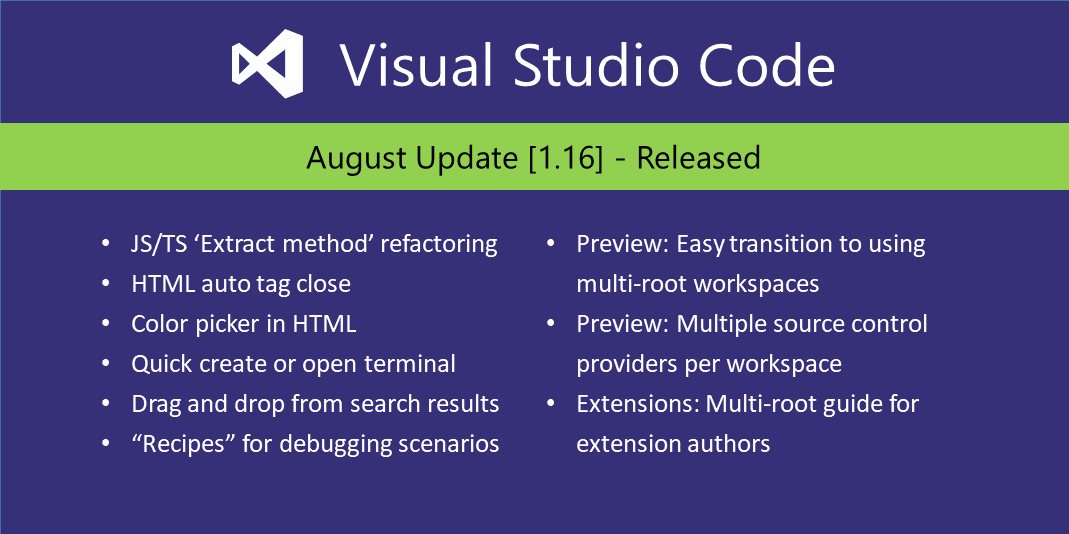
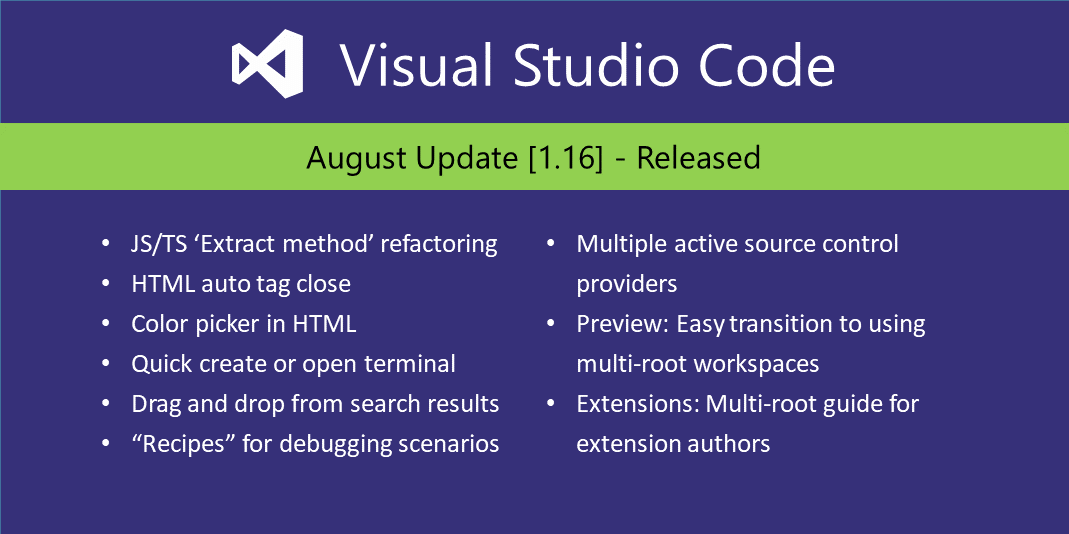
Multiple SCM providers in stable

Changed region(s): [[0.5557, 0.5094, 0.8644, 0.6292], [0.5557, 0.6592, 0.8026, 0.7191], [0.5248, 0.4195, 0.8644, 0.4794]]

diff --git a/release-notes/v1_16.md b/release-notes/v1_16.md
@@ -14,10 +14,10 @@ Welcome to the August 2017 release of Visual Studio Code. There are a number of 
 * **[Color picker in HTML](#color-picker-in-html)** - You can now use the VS Code color picker in HTML files.
 * **[Integrated Terminal quick open](#terminal-quick-open-improvements)** - Create or jump to terminals from VS Code Quick Open.
 * **[Drag and drop from search](#drag-and-drop-from-search-results-and-problems-panel)** - Quickly open files from Search and also the Problems panel.
+* **[Multiple SCM providers](#source-control)** - You can now have multiple active source control providers.
 * **[New online documentation](#new-documentation)** - New Emmet topic and updates to the Node.js Deployment tutorial.
 * **[VS Code "recipes" repository](#vs-code-recipes)** - Examples using React, Angular and Docker in VS Code.
 * **[Preview: Multi-root workspaces](#preview-multi-root-workspaces)** - Smoother UI when adding folders and creating a Workspace (Insiders build).
-* **[Preview: Multiple SCM providers](#preview-source-control)** - With multiple folders, you can have multiple source control providers (Insiders build).
 * **[Multi-root tips for extension authors](#multi-root-workspace-tips-for-extension-authors)** - Update your extension to work seamlessly with multi-root workspaces.
 
 >If you'd like to read these release notes online, go to [Updates](https://code.visualstudio.com/updates) on [code.visualstudio.com](https://code.visualstudio.com).<br>
@@ -205,6 +205,14 @@ This can be used to reload images that have been modified on the file system.
 ### CSS/JSON color preview
 
 We moved the inline color preview rendering from the CSS/JSON extensions to the VS Code core and in the process deprecated four configuration settings: `css.colorDecorators.enable`, `sass.colorDecorators.enable`, `scss.colorDecorators.enable` and `json.colorDecorators.enable`. There is a new general setting `editor.colorDecorators` to control if the inline color box should be rendered.
+
+## Source control
+
+There is now support for having multiple source control providers simultaneously. This feature aligns with the work for  multi-root workspaces as multiple projects may have different SCM providers.
+
+![Multiple source control providers](images/1_16/scm-multiroot.png)
+
+You can now work on multiple Git repositories at once or even mix and match with other [source control providers](https://marketplace.visualstudio.com/search?target=VSCode&category=SCM%20Providers&sortBy=Downloads), all in a single workbench window.
 
 ## New Documentation
 
@@ -429,21 +437,13 @@ In addition, the following Microsoft extensions have been updated:
 
 * [ESLint](https://marketplace.visualstudio.com/items?itemName=dbaeumer.vscode-eslint)
 * [TSLint](https://marketplace.visualstudio.com/items?itemName=eg2.tslint)
-* [Go](https://marketplace.visualstudio.com/items?itemName=lukehoban.Go) 
+* [Go](https://marketplace.visualstudio.com/items?itemName=lukehoban.Go)
 
 As mentioned [above](#multi-root-workspace-tips-for-extension-authors), there is an multi-root workspace [guide](https://github.com/Microsoft/vscode/wiki/Extension-Authoring:-Adopting-Multi-Root-Workspace-APIs) to help you update your own extensions.
 
 ### Multi-root and the Language Server Protocol
 
 Proposed protocol has been added to the LSP to support multi-root workspaces. Both the [VS Code language client](https://www.npmjs.com/package/vscode-languageclient) and the [VS Code language server](https://www.npmjs.com/package/vscode-languageserver) have been updated to support the proposed protocol. In addition, VS Code's language client has been enhanced to support a server per workspace folder. A corresponding example can be found [here](https://github.com/Microsoft/vscode-extension-samples/tree/master/lsp-multi-server-sample).
-
-## Preview: Source control
-
-There is now support for having multiple source control providers simultaneously. This feature aligns with the work for  multi-root workspaces as multiple projects may have different SCM providers.
-
-![Multiple source control providers](images/1_16/scm-multiroot.png)
-
-You can now work on multiple Git repositories at once or even mix and match with other [source control providers](https://marketplace.visualstudio.com/search?target=VSCode&category=SCM%20Providers&sortBy=Downloads), all in a single workbench window.
 
 ## Miscellaneous
 
